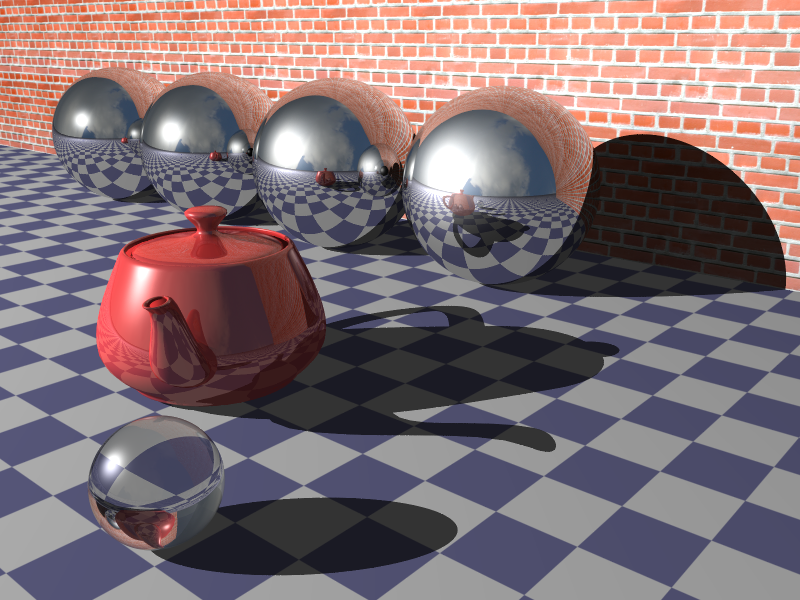
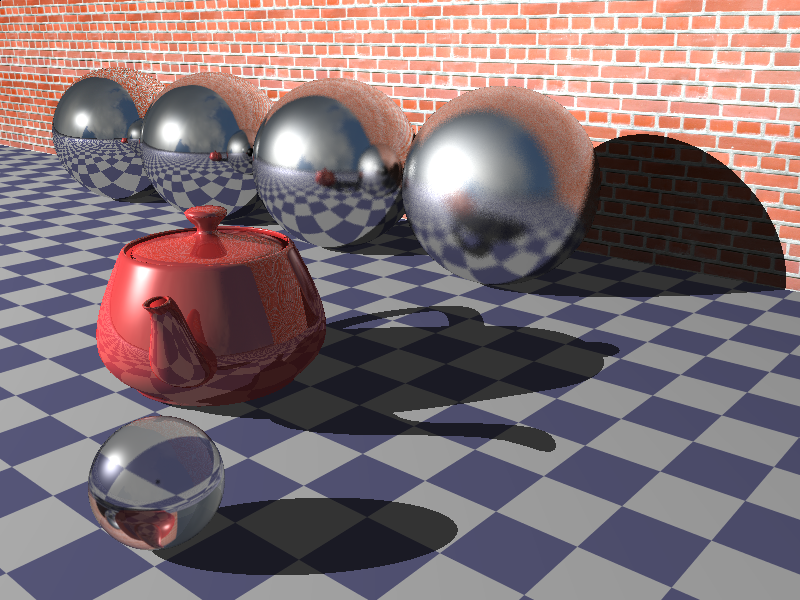
Finish glossy reflection

diff --git a/BHRayTracer/DataStructure/MtlBlinn.cpp b/BHRayTracer/DataStructure/MtlBlinn.cpp
@@ -2,17 +2,23 @@
 #include "scene.h"
 #include <math.h>
 #include <omp.h>
+
+#define ENABLE_Reflection_And_Refraction
+
+#ifdef ENABLE_Reflection_And_Refraction
 #define Bias 0.001f
 #define EulerN 2.7182818f
-#define ENABLE_REFLEC_REFRAC
-#ifdef ENABLE_REFLEC_REFRAC
-#define ENABLE_REFLECTION
-#define ENABLE_RFRACTION
-#ifdef ENABLE_RFRACTION
-#define ENABLE_INTERNAL_REFLECTION
-#endif
-#endif // ENABLE_REFLEC_REFRAC
+#define PI 3.14159265
+#define ENABLE_Reflection
+#define ENABLE_Refraction
 
+#ifdef ENABLE_Refraction
+//#define ENABLE_InternalReflection
+#endif
+#endif // ENABLE_Reflection_And_Refraction
+
+#define GlossyReflectionSampleCount 16
+#define GlossyRefractionSampleCount 16
 
 extern Node rootNode;
 extern LightList lights;
@@ -20,13 +26,17 @@ extern TexturedColor environment;
 void recursive(Node* root, const Ray& ray, HitInfo & outHit, bool &_bHit, int hitSide /*= HIT_FRONT*/);
 void RefractionInternalRecursive(Node* root, const Node* myNode, Ray ray, HitInfo & outHit, bool &_bHit);
 // get the ray from sphere inside to outside or doing internal reflection
-Ray HandleRayWhenRefractionRayOut(const Ray& inRay, const HitInfo& inRayHitInfo, const float& ior, bool& toOut);
+Ray HandleRayWhenRefractionRayOut(const Ray& inRay, const HitInfo& inRayHitInfo, const float& ior, bool& toOut, const float& refractionGlossiness);
 // Diffuse and Specular component
 Color DiffuseNSpecular(const TexturedColor& diffuse, const TexturedColor& specular, const float& glossiness, const HitInfo& hInfo, const Vec3f& vN, const Vec3f& vV);
 // Reflection Component
-Color Reflection(const Color& reflection, const float& cosPhi1, const HitInfo& hInfo, const Vec3f& vN, const Vec3f& vV, int& o_bounceCount);
+Color Reflection(const Color& reflection, const float& cosPhi1, const HitInfo& hInfo, const Vec3f& vN, const Vec3f& vV, int& o_bounceCount, const float& reflectionGlossiness);
 // Refraction component
-Color Refraction(const Color& refraction, const Color& absorption, const float& cosPhi1, const float& ior, const HitInfo& hInfo, const Vec3f& vN, const Vec3f& vV, int& o_bounceCount);
+Color Refraction(const Color& refraction, const Color& absorption, const float& cosPhi1, const float& ior, const HitInfo& hInfo, const Vec3f& vN, const Vec3f& vV, int& o_bounceCount, const float& refractionGlossiness);
+
+Vec3f GetRandomCrossingVector(const Vec3f& V);
+Vec3f GetSampleAlongNormal(const Vec3f& N, float radius);
+
 
 Color MtlBlinn::Shade(Ray const &ray, const HitInfo &hInfo, const LightList &lights, int bounceCount) const {
 	Color outColor = Color::Black();
@@ -37,7 +47,7 @@ Color MtlBlinn::Shade(Ray const &ray, const HitInfo &hInfo, const LightList &lig
 	outColor += DiffuseNSpecular(diffuse, specular, glossiness, hInfo, vN, vV);
 	// ----------
 	// Reflection and Refraction
-#ifdef ENABLE_REFLEC_REFRAC
+#ifdef ENABLE_Reflection_And_Refraction
 	{
 		if (bounceCount > 0) {
 			bounceCount--;
@@ -51,14 +61,14 @@ Color MtlBlinn::Shade(Ray const &ray, const HitInfo &hInfo, const LightList &lig
 			float R0 = pow((1 - ior) / (1 + ior), 2);
 			// Fresnel Reflection factor
 			float fresnelReflectionFactor = R0 + (1 - R0)* pow((1 - cosPhi1), 5);
-#ifdef ENABLE_REFLECTION
+#ifdef ENABLE_Reflection
 			// Reflection color
-			outColor += Reflection(fresnelReflectionFactor * refraction.GetColor() + reflection.GetColor(), cosPhi1, hInfo, vN, vV, bounceCount);
+			outColor += Reflection(fresnelReflectionFactor * refraction.GetColor() + reflection.GetColor(), cosPhi1, hInfo, vN, vV, bounceCount, reflectionGlossiness);
 #endif // ENABLE_REFLECTION
 
-#ifdef ENABLE_RFRACTION
+#ifdef ENABLE_Refraction
 			// Refraction color
-			outColor += Refraction((1 - fresnelReflectionFactor)*refraction.GetColor(), absorption, cosPhi1, ior, hInfo, vN, vV, bounceCount);
+			outColor += Refraction((1 - fresnelReflectionFactor)*refraction.GetColor(), absorption, cosPhi1, ior, hInfo, vN, vV, bounceCount, refractionGlossiness);
 #endif // ENABLE_RFRACTION
 		}
 	}
@@ -97,31 +107,47 @@ Color DiffuseNSpecular(const TexturedColor& diffuse, const TexturedColor& specul
 	return outColor;
 }
 
-#ifdef ENABLE_REFLECTION
-Color Reflection(const Color& reflection, const float& cosPhi1, const HitInfo& hInfo, const Vec3f& vN, const Vec3f& vV, int& o_bounceCount) {
+#ifdef ENABLE_Reflection
+Color Reflection(const Color& reflection, const float& cosPhi1, const HitInfo& hInfo, const Vec3f& vN, const Vec3f& vV, int& o_bounceCount, const float& reflectionGlossiness) {
 	Color reflectionColor = Color::Black();
 	if (!reflection.IsBlack()) {
-		Ray reflectionRay;
-		reflectionRay.dir = (2 * cosPhi1 * vN - vV).GetNormalized();
-		reflectionRay.p = hInfo.p + vN * Bias;
-		HitInfo reflHInfo = HitInfo();
-		bool bReflectionHit = false;
-		recursive(&rootNode, reflectionRay, reflHInfo, bReflectionHit, 0);
-		if (bReflectionHit && reflHInfo.node != nullptr) {
-			reflectionColor = reflection * reflHInfo.node->GetMaterial()->Shade(reflectionRay, reflHInfo, lights, o_bounceCount);
+
+		Color reflectionColorSum = Color::Black();
+		int sampleCount = reflectionGlossiness > 0 ? GlossyReflectionSampleCount : 1;
+		for (int i = 0; i < sampleCount; ++i)
+		{
+			Vec3f rndN = reflectionGlossiness > 0 ? GetSampleAlongNormal(vN, reflectionGlossiness * vN.Length()) : vN;
+			float newCosPhi1 = rndN.Dot(vV);
+			// handle floating point precision issues
+			{
+				if (newCosPhi1 > 1) newCosPhi1 = 1;
+				if (newCosPhi1 <= 0) continue;
+			}
+			Ray reflectionRay;
+			reflectionRay.dir = (2 * newCosPhi1 * rndN - vV).GetNormalized();
+			reflectionRay.p = hInfo.p + rndN * Bias;
+
+			HitInfo reflHInfo = HitInfo();
+			bool bReflectionHit = false;
+			recursive(&rootNode, reflectionRay, reflHInfo, bReflectionHit, 0);
+			if (bReflectionHit && reflHInfo.node != nullptr) {
+				reflectionColorSum += reflection * reflHInfo.node->GetMaterial()->Shade(reflectionRay, reflHInfo, lights, o_bounceCount);
+			}
+			else {
+				// doesn't bounce to anything
+				Vec3f dir_norm = reflectionRay.dir.GetNormalized();
+				reflectionColorSum += reflection * environment.SampleEnvironment(dir_norm);
+			}
 		}
-		else {
-			// doesn't bounce to anything
-			Vec3f dir_norm = reflectionRay.dir.GetNormalized();
-			reflectionColor = reflection * environment.SampleEnvironment(dir_norm);
-		}
+		reflectionColor = reflectionColorSum / sampleCount;
 	}
 	return reflectionColor;
 }
+
 #endif // ENABLE_REFLECTION
 
-#ifdef ENABLE_RFRACTION
-Color Refraction(const Color& refraction, const Color& absorption, const float& cosPhi1, const float& ior, const HitInfo& hInfo, const Vec3f& vN, const Vec3f& vV, int& o_bounceCount)
+#ifdef ENABLE_Refraction
+Color Refraction(const Color& refraction, const Color& absorption, const float& cosPhi1, const float& ior, const HitInfo& hInfo, const Vec3f& vN, const Vec3f& vV, int& o_bounceCount, const float& refractionGlossiness)
 {
 	Color refractionColor = Color::Black();
 	if (!refraction.IsBlack()) {
@@ -129,83 +155,95 @@ Color Refraction(const Color& refraction, const Color& absorption, const float& 
 		float sinPhi2 = sinPhi1 / ior;
 		float cosPhi2 = sqrt(1 - sinPhi2 * sinPhi2);
 
-		Vec3f vTn = -cosPhi2 * vN;
-		Vec3f vNxV = vN.Cross(vV);
-		Vec3f vTp = vN.Cross(vNxV).GetNormalized()*sinPhi2;
-		Vec3f vT = vTn + vTp;
+		Color refractionColorSum_in = Color::Black();
+		int sampleCount = refractionGlossiness > 0 ? GlossyRefractionSampleCount : 1;
+		for (int i = 0; i < sampleCount; ++i)
+		{
+			Vec3f vN_new = GetSampleAlongNormal(vN, refractionGlossiness *vN.Length());
+			Vec3f vTn = -cosPhi2 * vN_new;
+			Vec3f vNxV = vN_new.Cross(vV);
+			Vec3f vTp = vN_new.Cross(vNxV).GetNormalized()*sinPhi2;
+			Vec3f vT = vTn + vTp;
 
-		Ray refractionRay_in;
-		refractionRay_in.dir = vT;
-		refractionRay_in.p = hInfo.p - vN * Bias;
-		HitInfo refraHInfo_in = HitInfo();
-		bool bRefractionInHit;
-		recursive(&rootNode, refractionRay_in, refraHInfo_in, bRefractionInHit, 1);
-		if (bRefractionInHit) {
-			bool bGoingOut;
-			Ray nextRay = HandleRayWhenRefractionRayOut(refractionRay_in, refraHInfo_in, ior, bGoingOut);
-			if (bGoingOut) {
-				HitInfo refraHinfo_out = HitInfo();
-				bool bRefraction_out_Hit = false;
-				recursive(&rootNode, nextRay, refraHinfo_out, bRefraction_out_Hit, 0);
-				if (bRefraction_out_Hit && refraHinfo_out.node != nullptr) {
-					float absorptionFactorR = pow(EulerN, -absorption.r*refraHinfo_out.z);
-					float absorptionFactorG = pow(EulerN, -absorption.g*refraHinfo_out.z);
-					float absorptionFactorB = pow(EulerN, -absorption.b*refraHinfo_out.z);
-					Color absorptionFactor(absorptionFactorR, absorptionFactorG, absorptionFactorB);
-					refractionColor = refraction * absorptionFactor* refraHinfo_out.node->GetMaterial()->Shade(nextRay, refraHinfo_out, lights, o_bounceCount);
-				}
-				else {
-					// refraction out hit doesn't hit anything
-					refractionColor = refraction * environment.SampleEnvironment(nextRay.dir);
-				}
-			}
-			else {
-				// internal reflection
-#ifdef ENABLE_INTERNAL_REFLECTION
-				int bounceCount = 3;
-				Ray internalRay = nextRay;
-				while (bounceCount > 0)
+			Ray refractionRay_in;
+			refractionRay_in.dir = vT;
+			refractionRay_in.p = hInfo.p - vN_new * Bias;
+			HitInfo refraHInfo_in = HitInfo();
+			bool bRefractionInHit;
+			recursive(&rootNode, refractionRay_in, refraHInfo_in, bRefractionInHit, 1);
+			if (bRefractionInHit) {
+				bool bGoingOut;
+				Color refractionColorSum_out = Color::Black();
+				int sampleCount = refractionGlossiness > 0 ? GlossyRefractionSampleCount : 1;
+				for (int i = 0; i < sampleCount; ++i)
 				{
-					HitInfo internalHitInfo;
-					bool bInternalHit;
-					recursive(&rootNode, internalRay, internalHitInfo, bInternalHit, 1);
-					if (bInternalHit) {
-						bool bGoOut = false;
-						Ray nextRay_internal = HandleRayWhenRefractionRayOut(internalRay, internalHitInfo, ior, bGoOut);
-						if (bGoOut) {
-							HitInfo refraHinfo_out;
-							bool bRefraction_out_Hit = false;
-							recursive(&rootNode, nextRay_internal, refraHinfo_out, bRefraction_out_Hit, 0);
-							if (bRefraction_out_Hit && refraHinfo_out.node != nullptr) {
-
-								refractionColor = refraction * refraHinfo_out.node->GetMaterial()->Shade(nextRay_internal, refraHinfo_out, lights, 0);
-							}
-							else {
-								// refraction out hit doesn't hit anything
-								refractionColor = refraction * environment.SampleEnvironment(nextRay.dir);
-							}
-							break;
+					Ray nextRay = HandleRayWhenRefractionRayOut(refractionRay_in, refraHInfo_in, ior, bGoingOut, refractionGlossiness);
+					if (bGoingOut) {
+						HitInfo refraHinfo_out = HitInfo();
+						bool bRefraction_out_Hit = false;
+						recursive(&rootNode, nextRay, refraHinfo_out, bRefraction_out_Hit, 0);
+						if (bRefraction_out_Hit && refraHinfo_out.node != nullptr) {
+							float absorptionFactorR = pow(EulerN, -absorption.r*refraHinfo_out.z);
+							float absorptionFactorG = pow(EulerN, -absorption.g*refraHinfo_out.z);
+							float absorptionFactorB = pow(EulerN, -absorption.b*refraHinfo_out.z);
+							Color absorptionFactor(absorptionFactorR, absorptionFactorG, absorptionFactorB);
+							refractionColorSum_out += refraction * absorptionFactor* refraHinfo_out.node->GetMaterial()->Shade(nextRay, refraHinfo_out, lights, o_bounceCount);
 						}
 						else {
-							internalRay = nextRay_internal;
+							// refraction out hit doesn't hit anything
+							refractionColorSum_out += refraction * environment.SampleEnvironment(nextRay.dir);
 						}
 					}
-					bounceCount--;
-				}
+					else {
+						// internal reflection
+#ifdef ENABLE_InternalReflection
+						int bounceCount = 3;
+						Ray internalRay = nextRay;
+						while (bounceCount > 0)
+						{
+							HitInfo internalHitInfo;
+							bool bInternalHit;
+							recursive(&rootNode, internalRay, internalHitInfo, bInternalHit, 1);
+							if (bInternalHit) {
+								bool bGoOut = false;
+								Ray nextRay_internal = HandleRayWhenRefractionRayOut(internalRay, internalHitInfo, ior, bGoOut);
+								if (bGoOut) {
+									HitInfo refraHinfo_out;
+									bool bRefraction_out_Hit = false;
+									recursive(&rootNode, nextRay_internal, refraHinfo_out, bRefraction_out_Hit, 0);
+									if (bRefraction_out_Hit && refraHinfo_out.node != nullptr) {
+
+										refractionColor = refraction * refraHinfo_out.node->GetMaterial()->Shade(nextRay_internal, refraHinfo_out, lights, 0);
+									}
+									else {
+										// refraction out hit doesn't hit anything
+										refractionColor = refraction * environment.SampleEnvironment(nextRay.dir);
+									}
+									break;
+								}
+								else {
+									internalRay = nextRay_internal;
+								}
+							}
+							bounceCount--;
+						}
 #else 
-				refractionColor += Color(1, 0, 0);
+						refractionColorSum_in += Color(0, 0, 0);
 #endif // ENABLE_INTERNAL_REFLECTION
 
+					}
+				}
+				refractionColorSum_in += refractionColorSum_out / sampleCount;
 			}
-
-			}
-
 		}
-	return refractionColor;
+		refractionColor = refractionColorSum_in / sampleCount;
 	}
+	return refractionColor;
+}
 
-Ray HandleRayWhenRefractionRayOut(const Ray& inRay, const HitInfo& inRayHitInfo, const float& ior, bool& toOut) {
-	Vec3f vN = inRayHitInfo.N; // to up
+Ray HandleRayWhenRefractionRayOut(const Ray& inRay, const HitInfo& inRayHitInfo, const float& ior, bool& toOut, const float& refractionGlossiness) {
+	Vec3f vN = refractionGlossiness > 0 ? GetSampleAlongNormal(inRayHitInfo.N, refractionGlossiness * inRayHitInfo.N.Length()) : inRayHitInfo.N; // to up
+
 	Vec3f vV = -inRay.dir; // opposite to up
 
 	float cosPhi1 = vV.Dot(-vN);
@@ -235,7 +273,7 @@ Ray HandleRayWhenRefractionRayOut(const Ray& inRay, const HitInfo& inRayHitInfo,
 		return internalRay;
 	}
 }
-#ifdef ENABLE_INTERNAL_REFLECTION
+#ifdef ENABLE_InternalReflection
 void RefractionInternalRecursive(Node* root, const Node* myNode, Ray ray, HitInfo & outHit, bool &_bHit) {
 	if (root->GetNumChild() <= 0) return;
 	for (int i = 0; i < root->GetNumChild(); i++)
@@ -263,4 +301,28 @@ void RefractionInternalRecursive(Node* root, const Node* myNode, Ray ray, HitInf
 
 #endif // ENABLE_INTERNAL_REFLECTION
 #endif // ENABLE_RFRACTION
+cy::Vec3f GetRandomCrossingVector(const Vec3f& V)
+{
+	Vec3f rndVec = Vec3f(0, 0, 1);
+	// if the rndVec is not crossing with V, generate a new rand one
+	while (V.Cross(rndVec).IsZero())
+	{
+		rndVec = Vec3f(((double)rand() / (RAND_MAX)), ((double)rand() / (RAND_MAX)), ((double)rand() / (RAND_MAX)));
+	}
+	return rndVec;
+}
+cy::Vec3f GetSampleAlongNormal(const Vec3f& N, float R)
+{
+	float r = ((double)rand() / (RAND_MAX)) * R;
+	// Uniform distribution
+	r = sqrt(r) * R;
+	float theta = ((double)rand() / (RAND_MAX)) * 2 * PI;
+	// Random point in a circle
+	float x = r * cos(theta);
+	float y = r * sin(theta);
 
+	Vec3f axis1 = GetRandomCrossingVector(N).Cross(N);
+	Vec3f axis2 = axis1.Cross(N);
+
+	return N + axis1.GetNormalized() * x + axis2.GetNormalized() * y;
+}

diff --git a/BHRayTracer/Main.cpp b/BHRayTracer/Main.cpp
@@ -42,7 +42,7 @@ Color TraceRayMultiple(int i, int j);
 //---------------
 // Use Components
 
-#define USE_MSAA
+//#define USE_MSAA
 //#define ENABLE_DEPTH_OF_VIEW
 
 //---------------
